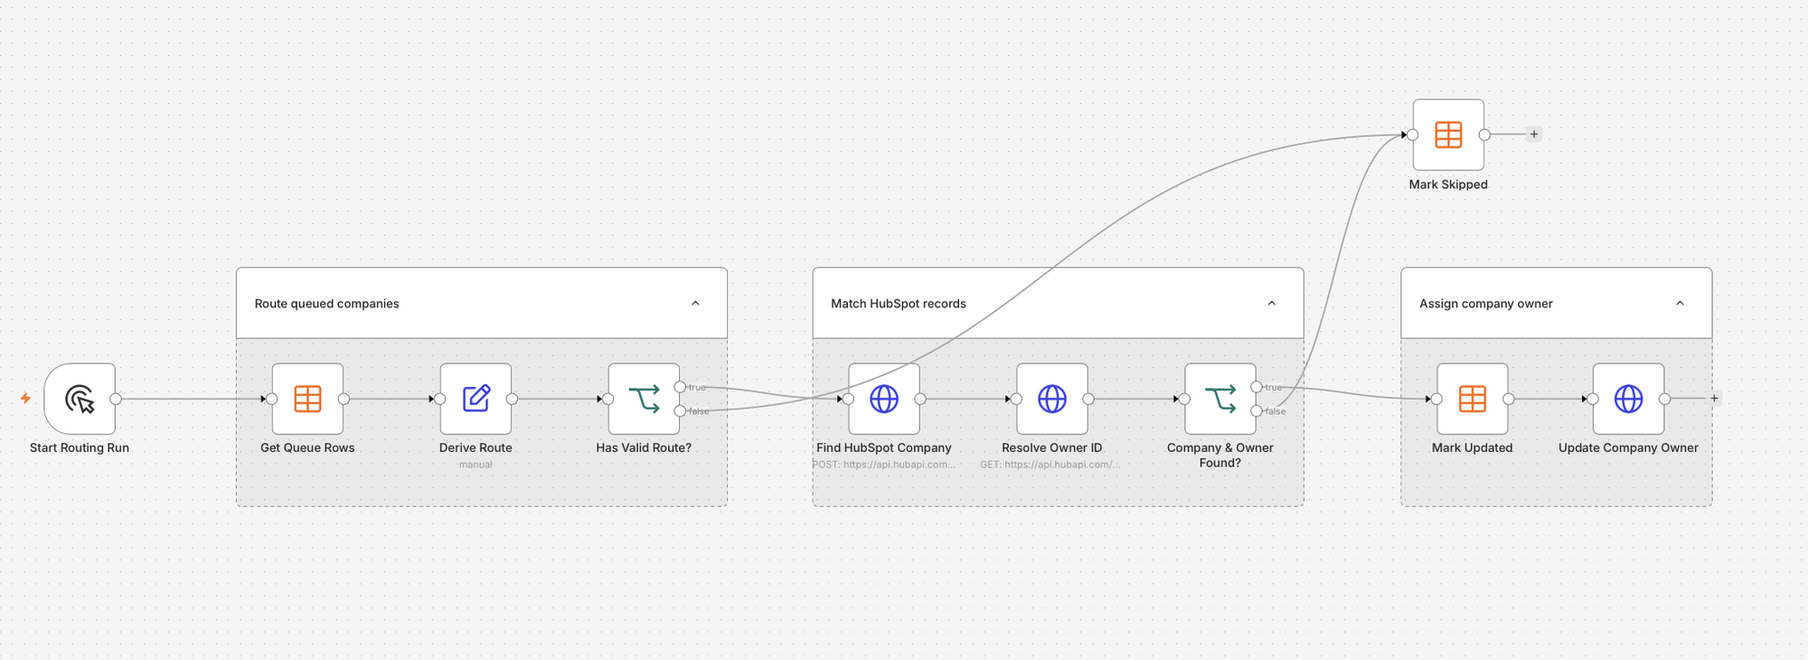
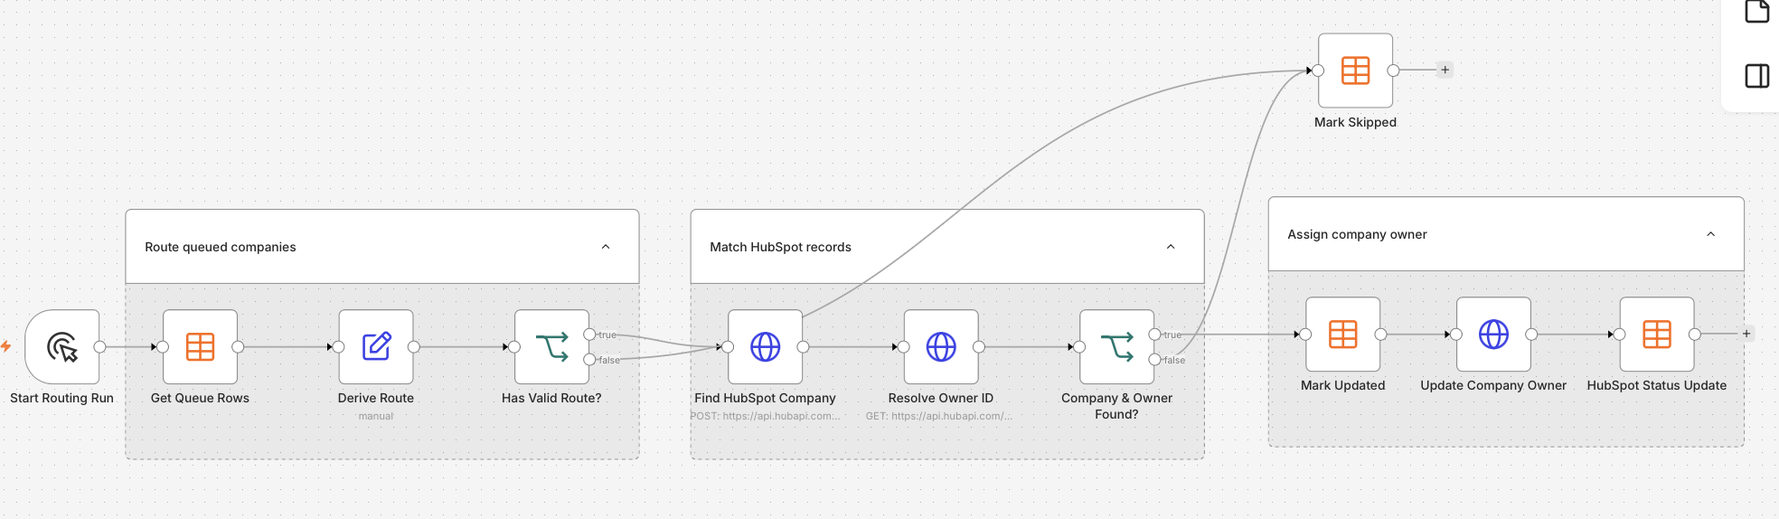
Markdown cleanups

diff --git a/docs/1_account_discovery.md b/docs/1_account_discovery.md
@@ -80,53 +80,48 @@ Clay search results are treated as candidate data, not facts. Enrichment is spen
 Four formula columns turn the enriched data into the fields routing and prioritization need. Each is a short Clay formula, so the logic is visible in the table and anyone can audit it. All four follow the same conventions:
 
 - **Every row gets an answer.** Each formula ends in a catch-all, so no row is left blank.
-- **Unknown is not the same as out of scope.** Missing or unrecognized data returns `NEEDS_REVIEW`; data that clearly fails the ICP returns `OUT_OF_ICP`.
-- **Outputs match the routing workflow.** For in-scope companies, segment and region values are the exact codes the [account routing workflow](2_account_routing.md) expects, so nothing has to be relabeled after export. `OUT_OF_ICP` and `NEEDS_REVIEW` are Clay-only values that stop a company before export.
+- **Unknown data is never guessed.** Missing or unrecognized data returns `NEEDS REVIEW` instead of a best guess. Clearly out-of-scope companies are filtered out earlier, by the company search itself.
+- **Outputs feed the routing workflow directly.** The [account routing workflow](2_account_routing.md) reads the segment and region values as they are, so nothing has to be relabeled after export.
 
 ### Segment
 
 Maps Clay's company size band to a sales segment:
 
 ```javascript
-["201-500", "501-1,000"].includes({{Size}}) ? "MID_MARKET"
-: ["1,001-5,000", "5,001-10,000", "10,001+"].includes({{Size}}) ? "ENTERPRISE"
-: ["1-10", "11-50", "51-200"].includes({{Size}}) ? "OUT_OF_ICP"
-: "NEEDS_REVIEW"
+["201-500","501-1,000"].includes({{Size}}) ? "MID MARKET"
+: ["1,001-5,000","5,001-10,000","10,000+","10,001+"].includes({{Size}}) ? "ENTERPRISE"
+: "NEEDS REVIEW"
 ```
 
 | Size band | Segment |
 |---|---|
-| 201 – 500, 501 – 1,000 | `MID_MARKET` |
-| 1,001 – 5,000, 5,001 – 10,000, 10,001+ | `ENTERPRISE` |
-| 200 employees or fewer | `OUT_OF_ICP` |
-| Blank or unrecognized band | `NEEDS_REVIEW` |
+| 201 – 500, 501 – 1,000 | `MID MARKET` |
+| 1,001 – 5,000, 5,001 – 10,000, 10,000+ / 10,001+ | `ENTERPRISE` |
+| Blank or unrecognized band | `NEEDS REVIEW` |
 
-These boundaries follow Clay's available size bands. The exact `employee_count` is exported alongside the segment, so a borderline account can still be checked during review or reclassified if the policy changes.
+There's no out-of-scope branch because the company search already filters to 200+ employees, so smaller companies never reach the table. These boundaries follow Clay's available size bands. The `Size` band is exported alongside the segment, so a borderline account can still be checked during review or reclassified if the policy changes.
 
 ### Region
 
-Maps the company's headquarters country and state to a sales region:
+The US and UK companies live in separate Clay tables, so each table sets its own region. In the **UK Companies 200+** table, Region is simply `UK`, because that search only returns UK companies.
+
+In the **US Companies 200+** table, a formula maps the headquarters state to a US sales region:
 
 ```javascript
-["GB", "UK"].includes({{Derived - Country}}?.toUpperCase()) ? "UK"
-: {{Derived - Country}}?.toUpperCase() !== "US"
-    ? ({{Derived - Country}} ? "OUT_OF_ICP" : "NEEDS_REVIEW")
-: ["AK","AZ","CA","CO","HI","ID","MT","NM","NV","OR","UT","WA","WY"]
-    .includes({{Derived - State}}?.toUpperCase()) ? "US_WEST"
-: ["AL","AR","CT","DC","DE","FL","GA","IA","IL","IN","KS","KY","LA","MA","MD","ME","MI",
-   "MN","MO","MS","NC","ND","NE","NH","NJ","NY","OH","OK","PA","RI","SC","SD","TN","TX",
-   "VA","VT","WI","WV"]
-    .includes({{Derived - State}}?.toUpperCase()) ? "US_EAST"
-: "NEEDS_REVIEW"
+["AK","AZ","CA","CO","HI","ID","MT","NM","NV","OR","UT","WA","WY"]
+    ?.includes({{Derived - State}}?.toUpperCase()) ? "US_WEST"
+: ["AL","AR","CT","DC","DE","FL","GA","IL","IN","IA","KS","KY","LA","ME","MD","MA","MI",
+   "MN","MS","MO","NE","NH","NJ","NY","NC","ND","OH","OK","PA","RI","SC","SD","TN","TX",
+   "VT","VA","WV","WI"]
+    ?.includes({{Derived - State}}?.toUpperCase()) ? "US_EAST"
+: "NEEDS REVIEW"
 ```
 
-| Headquarters | Region |
+| Headquarters state | Region |
 |---|---|
-| United Kingdom | `UK` |
 | 13 western states: AK, AZ, CA, CO, HI, ID, MT, NM, NV, OR, UT, WA, WY | `US_WEST` |
 | The other 37 states plus Washington, DC | `US_EAST` |
-| Any other country | `OUT_OF_ICP` |
-| Missing country, or a US company with a missing or unrecognized state | `NEEDS_REVIEW` |
+| Missing or unrecognized state | `NEEDS REVIEW` |
 
 Together the two lists cover all 50 states and DC exactly once. The `?.` operators and `toUpperCase()` make the formula safe on blank values and lowercase codes, so a messy row is sent to review instead of breaking the column.
 
@@ -135,7 +130,7 @@ Together the two lists cover all 50 states and DC exactly once. The `?.` operato
 Flags whether the Find jobs enrichment returned at least one open role:
 
 ```javascript
-{{Find jobs}}?.jobs?.length > 0 ? "YES" : "NO"
+{{Find jobs}}?.jobs?.[0]?.job_title ? "YES" : "NO"
 ```
 
 ### Fit Status
@@ -143,65 +138,70 @@ Flags whether the Find jobs enrichment returned at least one open role:
 Combines the three columns above into one decision per company:
 
 ```javascript
-[{{Segment}}, {{Region}}].includes("OUT_OF_ICP") ? "NOT_A_FIT"
-: [{{Segment}}, {{Region}}].includes("NEEDS_REVIEW") ? "REVIEW"
-: {{Job Signal Found}} === "YES" ? "STRONG_FIT"
-: "FIT"
+{{Region}}?.toLowerCase() === "needs review" || {{Segment}}?.toLowerCase() === "needs review" ? "Review"
+: {{Region}}?.toLowerCase() === "other" || {{Segment}}?.toLowerCase() === "other" ? "Not A Fit"
+: {{Job Signal Found}} === "YES" ? "Strong Fit"
+: "Fit"
 ```
 
 ```mermaid
 flowchart TD
-    start(["Company row"]) --> q1{"Segment or Region<br/>= OUT_OF_ICP?"}
-    q1 -- yes --> out["NOT_A_FIT"]
-    q1 -- no --> q2{"Segment or Region<br/>= NEEDS_REVIEW?"}
-    q2 -- yes --> review["REVIEW"]
+    start(["Company row"]) --> q1{"Segment or Region<br/>= NEEDS REVIEW?"}
+    q1 -- yes --> review["Review"]
+    q1 -- no --> q2{"Segment or Region<br/>= Other?"}
+    q2 -- yes --> out["Not A Fit"]
     q2 -- no --> q3{"Open job<br/>posting found?"}
-    q3 -- yes --> strong["STRONG_FIT"]
-    q3 -- no --> fit["FIT"]
+    q3 -- yes --> strong["Strong Fit"]
+    q3 -- no --> fit["Fit"]
 ```
 
 | Fit status | Meaning | What happens next |
 |---|---|---|
-| `STRONG_FIT` | Inside the ICP and actively hiring | Prioritized for outreach |
-| `FIT` | Inside the ICP, no hiring signal yet | Routed to a rep as normal |
-| `REVIEW` | A required fact is missing or unclear | A person checks it before it reaches the CRM |
-| `NOT_A_FIT` | Clearly outside the ICP | Kept in the table to explain the exclusion, never exported |
+| `Strong Fit` | Inside the ICP and actively hiring | Prioritized for outreach |
+| `Fit` | Inside the ICP, no hiring signal yet | Routed to a rep as normal |
+| `Review` | A required fact is missing or unclear | A person checks it before an owner is assigned |
+| `Not A Fit` | Segment or region is outside the ICP | Kept in the table to explain the exclusion |
 
-The order of the checks is deliberate. A known disqualifier wins first: a 50-person company is out of scope even if its state is missing, so no one wastes time reviewing it. Missing data comes next: a company with an unknown region is never scored as a fit, because routing it would mean guessing which rep owns it.
+Missing data is checked first: a company with an unknown region or segment is never scored as a fit, because routing it would mean guessing which rep owns it. The comparisons are case-insensitive, so `NEEDS REVIEW` and `needs review` are treated the same.
 
 ## 4. Quality controls
 
 - **Domain is the identity key.** Domains are normalized to lowercase with no URL path, so the same company found twice can be spotted and matched to HubSpot later.
 - **Duplicates are reviewed, not auto-deleted.** Clay's auto-dedupe is left off on the raw tables, because a parent company and its subsidiary can share a domain. Possible duplicates are marked and resolved by a person, and the original rows are kept as evidence.
-- **Raw tables are preserved.** `REVIEW` and `NOT_A_FIT` rows stay in the workbook, so every exclusion can be explained later.
+- **Raw tables are preserved.** `Review` and `Not A Fit` rows stay in the workbook, so every exclusion can be explained later.
 - **Manual spot check before export.** At least 10 approved rows are checked by hand: headcount matches the segment, the state matches the region, and every source link opens.
-- **Existing CRM accounts are flagged.** Companies already in HubSpot are marked for an update or an ownership review instead of being imported as new; the `review_flag` column carries that decision into routing.
+- **Existing CRM accounts are flagged.** Companies already in HubSpot are marked for an update or an ownership review instead of being imported as new.
 
 ## 5. Handoff to routing
 
-Only approved companies (`FIT` or `STRONG_FIT`, with no unresolved duplicates) go into the export view. It's downloaded as `fiction_cloud_icp_accounts_YYYY-MM-DD.csv` and imported into both HubSpot and the n8n routing queue, where the [account routing workflow](2_account_routing.md) assigns each company to one of six sales lanes using its segment and region.
+Companies leave Clay through an export view, downloaded as `fiction_cloud_icp_accounts_YYYY-MM-DD.csv` and imported into both HubSpot and the n8n routing queue. There, the [account routing workflow](2_account_routing.md) assigns each company to one of six sales lanes using its segment and region.
 
-Because the export is filtered on fit status, `OUT_OF_ICP` and `NEEDS_REVIEW` never leave Clay: every exported row carries one of the routing codes (`MID_MARKET` or `ENTERPRISE`, and `US_EAST`, `US_WEST` or `UK`). Routing still checks the region, segment and review flag on every row, so a bad value that slipped through would be sent to `REVIEW` rather than assigned.
+The export view can be filtered in two ways:
+
+- **Approved companies only.** Filtering on `Fit` or `Strong Fit`, with no unresolved duplicates, keeps `Review` and `Not A Fit` companies in Clay, so routing only receives rows with a valid segment and region.
+- **Approved and review companies.** Including review rows lets the routing workflow record them as `Skipped`, so every company in the batch has a visible outcome in the queue.
+
+Either way, routing checks the region and segment on every row, so a company without a valid lane is marked `Skipped` rather than assigned.
 
 The export columns use the same names as the routing queue:
 
 | Export column | Used for |
 |---|---|
-| `company_name`, `domain` | Identity and HubSpot matching. Domain is normalized and is the unique key. |
-| `employee_count`, `segment` | Mid-Market vs. Enterprise lane |
-| `hq_country_code`, `hq_state_code`, `region` | US East, US West or UK lane |
-| `review_flag` | Set when an approved account still needs a person's decision before an owner is assigned, such as a subsidiary sharing its parent's domain or a company already owned in HubSpot. Routing sends these to `REVIEW`. |
-| `fit_status`, `job_signal_found` | Prioritizing outreach |
-| `company_profile_url`, `source_table`, `enriched_at` | Audit trail |
+| `Name`, `Domain` | Identity and HubSpot matching. Domain is normalized and is the unique key. |
+| `Size`, `Segment` | Mid-Market vs. Enterprise lane |
+| `Country`, `City`, `Derived_State`, `Region` | US East, US West, or UK lane |
+| `Fit_Status`, `Job_Signal_Found` | Prioritizing outreach |
+| `Description`, `Industry`, `Type` | Company context for the assigned rep |
+| `Source_Account_ID`, `Record_Source` | Audit trail back to the Clay record |
 
 ## Design decisions
 
 - **Separate searches per country.** Each table's source is unambiguous, and US and UK filters can evolve independently.
 - **Enrich on demand, not by default.** Conditional enrichment keeps credit spend proportional to missing data rather than to row count.
 - **Formulas over manual tagging.** Segment, region and fit are calculated the same way for every row, and the rules are readable in the table itself.
-- **Review is a first-class outcome.** Missing or conflicting data produces `NEEDS_REVIEW`, never a guessed region or segment, so routing downstream only ever sees clean inputs.
+- **Review is a first-class outcome.** Missing or conflicting data produces `NEEDS REVIEW`, never a guessed region or segment, so routing downstream only ever sees clean inputs.
 - **Shared codes across systems.** Clay outputs the same segment and region codes the routing workflow reads, so the handoff needs no translation step.
-- **Signals are kept separate from fit.** Hiring activity raises a company from `FIT` to `STRONG_FIT` but never makes an out-of-profile company a fit.
+- **Signals are kept separate from fit.** Hiring activity raises a company from `Fit` to `Strong Fit` but never makes an out-of-profile company a fit.
 
 ## What's next
 

diff --git a/docs/2_account_routing.md b/docs/2_account_routing.md
@@ -16,7 +16,7 @@ An automated routing workflow for **Fiction Cloud**, a fictional B2B SaaS compan
 2. **n8n** decides which sales lane each company belongs to.
 3. **HubSpot** receives the owner assignment.
 
-Every decision is logged with a reason, so any assignment can be explained later.
+Every decision is logged in an n8n Data Table with its assigned route, owner, and update status, so any assignment can be traced later.
 
 ## Routing policy
 
@@ -26,20 +26,20 @@ Fiction Cloud sells to two segments in three regions, which gives six sales lane
 
 | Employees | Segment |
 |---|---|
-| 201 – 1,000 | `MID_MARKET` |
+| 201 – 1,000 | `MID MARKET` |
 | 1,001+ | `ENTERPRISE` |
 
-**Region** comes from headquarters location: the defined western US states map to `US_WEST`, all other US states and DC map to `US_EAST`, and Great Britain maps to `UK`.
+**Region** comes from headquarters location: the defined western US states map to `US_WEST`, the other 37 states and DC map to `US_EAST`, and Great Britain maps to `UK`.
 
 Together they pick the lane:
 
-| Region | MID_MARKET | ENTERPRISE |
+| Region | MID MARKET | ENTERPRISE |
 |---|---|---|
 | **US_EAST** | `AE_EAST_MM` | `AE_EAST_ENT` |
 | **US_WEST** | `AE_WEST_MM` | `AE_WEST_ENT` |
 | **UK** | `AE_UK_MM` | `AE_UK_ENT` |
 
-Anything that doesn't fit cleanly goes to **REVIEW** instead of being guessed at: a missing region or segment, a missing or shared domain, a subsidiary, or conflicting firmographics. A wrong owner is worse than a short delay, because it sends a rep after an account that isn't theirs.
+Anything that doesn't fit cleanly is marked **`Skipped`** for review instead of being guessed at: a missing region or segment, a missing or shared domain, a subsidiary, or conflicting firmographics. A wrong owner is worse than a short delay, because it sends a rep after an account that isn't theirs.
 
 ## Which system does what
 
@@ -62,7 +62,7 @@ flowchart LR
     clay -- "CSV import" --> queue
     queue -- "pending rows" --> workflow
     workflow -- "find company,<br/>set owner" --> hubspot
-    workflow -- "status, bucket,<br/>reason" --> queue
+    workflow -- "route, owner,<br/>update status" --> queue
 ```
 
 The same reviewed Clay batch seeds both HubSpot and the routing queue. HubSpot holds the records; n8n holds the decisions.
@@ -72,7 +72,7 @@ The same reviewed Clay batch seeds both HubSpot and the routing queue. HubSpot h
 The portfolio runs on a HubSpot Free account, whose limit of 10 custom properties was already used up. Rather than overwrite unrelated standard fields, the design adds **zero new HubSpot properties**:
 
 - Routing inputs use HubSpot's **default Company properties**: Company domain name, Number of employees, Country/Region code and State/Region code.
-- Routing outputs (region, segment, lane, status, reason) live in the **n8n Data Table**, not in HubSpot.
+- Routing outputs (assigned route, owner email, and update status) live in the **n8n Data Table**, not in HubSpot.
 - The only thing written back to HubSpot is the native **Company owner** field.
 
 No paid HubSpot workflow tools are needed. The tradeoff is that the route lane is visible in n8n but can't be filtered on in HubSpot. If a custom property slot ever frees up, the lane would be the one field worth adding.
@@ -81,7 +81,7 @@ No paid HubSpot workflow tools are needed. The tradeoff is that the route lane i
 
 ![n8n account routing workflow](images/account_routing_n8n_workflow.png)
 
-The workflow runs in three stages, each grouped in the n8n canvas. Every company ends in one of two places: its owner is assigned in HubSpot, or it's marked skipped with a reason.
+The workflow runs in three stages, each grouped in the n8n canvas. A successful company receives its owner in HubSpot before the queue sets `HubSpot_Update_Status` to `Updated`. Records that cannot be matched or routed are marked `Skipped` for review.
 
 ```mermaid
 flowchart LR
@@ -96,7 +96,7 @@ flowchart LR
     end
 
     subgraph assign["Assign company owner"]
-        mark["Mark Updated"] --> update["Update Company Owner"]
+        mark["Mark Updated"] --> update["Update Company Owner"] --> status["HubSpot Status Update"]
     end
 
     skip["Mark Skipped"]
@@ -111,36 +111,38 @@ flowchart LR
 | Stage | Node | n8n node type | What it does |
 |---|---|---|---|
 | Trigger | **Start Routing Run** | Manual trigger | Starts a run on demand. Designed to move to a 15-minute schedule once tested. |
-| Route queued companies | **Get Queue Rows** | Data Table | Reads queue rows with a blank `route_status`, i.e. companies not yet decided. Already-routed rows are never picked up again. |
-| | **Derive Route** | Edit Fields (Set) | Combines region and segment into a route bucket, e.g. `US_WEST` + `ENTERPRISE` → `AE_WEST_ENT`. |
-| | **Has Valid Route?** | If | Checks that the bucket is one of the six lanes and the Clay review flag is clear. If not, the company goes to **Mark Skipped**. |
+| Route queued companies | **Get Queue Rows** | Data Table | Loads the companies from the `fc_route_queue` Data Table. In this demo the Clay list is exported and imported into the Data Table rather than connected to Clay directly. |
+| | **Derive Route** | Edit Fields (Set) | Combines region and segment into a route and owner, e.g. `US_WEST` + `ENTERPRISE` → `AE_WEST_ENT`. |
+| | **Has Valid Route?** | If | Checks that the route is one of the six lanes. A company whose region or segment is marked for review in Clay fails the check and goes to **Mark Skipped**. |
 | Match HubSpot records | **Find HubSpot Company** | HTTP Request (`POST` HubSpot CRM search) | Searches HubSpot Companies by domain to get the Company's Record ID. |
 | | **Resolve Owner ID** | HTTP Request (`GET` HubSpot API) | Looks up the HubSpot owner ID to assign for the company's route bucket. |
 | | **Company & Owner Found?** | If | Continues only if exactly one company and a valid owner were found. No match, or an ambiguous one, goes to **Mark Skipped**. |
-| Assign company owner | **Mark Updated** | Data Table | Writes the HubSpot Company ID, bucket, status, reason and policy version back to the company's queue row. |
-| | **Update Company Owner** | HTTP Request (HubSpot API) | Sets the Company owner on the HubSpot record. |
-| Exception path | **Mark Skipped** | Data Table | Records `REVIEW` with a short reason, so a person can fix the data and re-queue the company. |
+| Assign company owner | **Mark Updated** | Data Table | Writes the assigned route and owner email to the queue row before the CRM write. It leaves `HubSpot_Update_Status` blank. |
+| | **Update Company Owner** | HTTP Request (HubSpot API) | Sets the Company owner on the HubSpot record. The next step runs only after this request succeeds. |
+| | **HubSpot Status Update** | Data Table | Sets `HubSpot_Update_Status` to `Updated` after HubSpot confirms the owner update. |
+| Exception path | **Mark Skipped** | Data Table | Sets `HubSpot_Update_Status` to `Skipped`, so a person can fix the data and re-run the company. |
 
 ## The decision log
 
-The `fc_route_queue` Data Table is the audit trail. It starts as the reviewed Clay file, one row per company, and the workflow fills in the output columns:
+The `fc_route_queue` Data Table is the audit trail. It starts as the exported Clay file, one row per company, and the workflow fills in the last three columns:
 
 | Column | Purpose |
 |---|---|
-| `company_name`, `domain`, `employee_count`, `hq_country_code`, `hq_state_code` | Inputs from Clay. Domain is the unique key. |
-| `region`, `segment`, `review_flag` | Routing inputs from the Clay ICP review |
-| `hubspot_company_id` | HubSpot Record ID after a successful domain match: the stable link to the CRM |
-| `route_bucket` | One of the six lanes |
-| `route_status` | `ROUTED` or `REVIEW`. Blank means pending. |
-| `route_reason` | Short, human-readable explanation of the decision |
-| `policy_version` | `v1`, so a decision can be traced to the rules in force when it was made |
+| `Name`, `Domain`, `Description`, `Industry`, `Size`, `Type`, `City`, `Country` | Company details from Clay. Domain is the matching key. |
+| `Source_Account_ID`, `Record_Source` | The Clay record ID and source system, so each row can be traced back to where it came from |
+| `Segment`, `Region`, `Derived_State` | Routing inputs derived in Clay. A region that can't be determined is marked for review. |
+| `Job_Signal_Found`, `Fit_Status` | ICP fit results from Clay |
+| `n8n_assigned_route` | The lane the workflow assigned, e.g. `AE_EAST_MM` |
+| `n8n_assigned_owner_email` | The email of the HubSpot owner assigned to the company |
+| `HubSpot_Update_Status` | `Updated` once HubSpot confirms the owner change, or `Skipped` when routing stops. Blank means not yet processed. |
+| `id`, `createdAt`, `updatedAt` | Row metadata added by n8n |
 
 ## Design decisions
 
 - **Domain is the matching key.** Company names vary ("Acme" vs. "Acme, Inc."), but domains don't. Clay rows are deduplicated to one per normalized domain, and HubSpot's Company import deduplicates on domain too, so re-importing a company updates it instead of creating a duplicate.
-- **Re-runs are safe.** The workflow only reads rows with a blank status and writes a status to every row it touches, so running it twice never assigns the same company twice.
-- **Bad data goes to review, not to a rep.** Missing fields, unmatched domains and duplicate CRM records are all stopped and labeled, rather than routed on a guess.
-- **Every decision is explainable.** The status, reason and policy version on each row answer "why does this rep own this account?" without anyone digging through execution logs.
+- **Success is recorded only after HubSpot confirms.** `Updated` is written only after the owner update succeeds, so a failed CRM write never receives a false success status.
+- **Bad data goes to review, not to a rep.** Missing fields, unmatched domains and duplicate CRM records are all stopped and marked `Skipped`, rather than routed on a guess.
+- **Every decision is traceable.** The assigned route, owner email, and update status on each row answer "who owns this account, and did HubSpot get the change?" without anyone digging through execution logs.
 - **The company is the routing unit.** Routing at the account level keeps every contact at one company with the same rep. Contacts can be added later and associated to the existing company by domain.
 
 ## Test plan
@@ -149,16 +151,20 @@ The workflow is tested against the cases most likely to break routing:
 
 | Test case | Expected result |
 |---|---|
-| One company in each of the six region/segment lanes | Each gets the correct bucket and owner, status `ROUTED` |
-| Company with a missing region | `REVIEW`, never routed |
-| Company with a review flag set in Clay | `REVIEW` |
-| Company whose domain isn't in HubSpot | `REVIEW`, no CRM match |
-| Running the workflow a second time | No row is processed twice |
+| One company in each of the six region/segment lanes | Each gets the correct route and owner, status `Updated` |
+| Company with a missing region | `Skipped`, never routed |
+| Company whose region or segment is marked for review in Clay | `Skipped` |
+| Company whose domain isn't in HubSpot | `Skipped`, no CRM match |
+| HubSpot owner update fails | `Updated` is not written |
 
 Evidence for each run: the exported Data Table CSV, the HubSpot Company records, and the n8n execution log.
 
+> **Note:** The demo HubSpot account has a single user, so there is only one owner to assign. Live runs were therefore done one lane at a time, starting with `AE_EAST_MM`.
+
 ## What's next
 
+- **Connect Clay directly.** Replace the manual export and import with a direct Clay-to-n8n connection.
+- **Only pick up unprocessed rows.** Filter **Get Queue Rows** to rows with a blank `HubSpot_Update_Status`, so re-runs skip companies that are already done.
 - **Move to a schedule.** Switch the manual trigger to a 15-minute schedule so new Clay accounts are routed without anyone starting a run.
 - **Add capacity rules.** Balance assignments within a lane by each rep's current account count, not just by territory.
 - **Route contacts and inbound leads.** Extend the same policy to contacts and form fills, inheriting the owner of the matched company.

diff --git a/README.md b/README.md
@@ -45,7 +45,7 @@ flowchart TD
         clay["Clay<br/>Find & enrich ICP accounts"]
         routing["n8n Account Routing<br/>Assign the right rep"]
         crm["HubSpot CRM<br/>Company owner set"]
-        review["Review queue<br/>NEEDS_REVIEW"]
+        review["Review queue<br/>NEEDS REVIEW · Skipped"]
     end
 
     subgraph analyze["Model & analyze data"]
@@ -91,9 +91,9 @@ Bad data is stopped along the way: Clay and n8n send unclear or conflicting reco
 
 - **ICP-driven search.** US and UK searches filter on country, company size (201+ employees), industry, and domain, and enrichment runs only to fill in missing facts, so credits aren't spent re-fetching data.
 - **Formula-based decisions.** Clay formulas derive segment, region, and fit status the same way for every row, using the exact codes the routing workflow expects.
-- **Hiring as a buying signal.** Clay's Find jobs enrichment lifts accounts with open roles from `FIT` to `STRONG_FIT`.
+- **Hiring as a buying signal.** Clay's Find jobs enrichment lifts accounts with open roles from `Fit` to `Strong Fit`.
 
-**Result:** 73 candidate accounts sourced (50 US, 23 UK). Only `FIT` and `STRONG_FIT` accounts are exported; anything with a missing size or location is flagged `NEEDS_REVIEW` and never leaves Clay.
+**Result:** 73 candidate accounts sourced (50 US, 23 UK). Accounts with a missing size or location are flagged `NEEDS REVIEW`, and the export can be filtered to send only `Fit` and `Strong Fit` accounts to routing.
 
 **Shows:** account discovery · data enrichment · ICP qualification · Clay formulas · data quality controls
 
@@ -105,15 +105,15 @@ Bad data is stopped along the way: Clay and n8n send unclear or conflicting reco
 
 **Tools:** n8n, HubSpot API
 
-> Automatically assigns each target account to the right sales rep, and logs why.
+> Automatically assigns each target account to the right sales rep, and logs the result.
 
 ![n8n account routing workflow](docs/images/account_routing_n8n_workflow.png)
 
 - **Six sales lanes:** US East, US West, and UK, each split into Mid-Market and Enterprise, decided by company size and region.
 - **Zero new HubSpot fields.** Built on HubSpot Free with its custom properties already used up: routing decisions live in an n8n Data Table, and only the native Company owner field is written back.
-- **Safe to re-run and explainable.** Only undecided companies are picked up, so no account is assigned twice, and every decision records a status, reason, and policy version.
+- **Traceable by design.** Each row records its assigned route, owner email, and update status, and `Updated` is written only after HubSpot confirms the owner change.
 
-**Result:** Every company ends in one of two places: its owner is assigned in HubSpot, or it's skipped with a reason, such as an unmatched domain, a duplicate record, or a missing region.
+**Result:** Every processed company ends in one of two places: its owner is assigned in HubSpot and the queue records `Updated`, or it's marked `Skipped` for review, for example because of an unmatched domain, a duplicate record, or a missing region.
 
 **Shows:** workflow automation · API integration · routing design · data quality controls
 

diff --git a/docs/data_generator.md b/docs/data_generator.md
@@ -1,10 +1,10 @@
 # Fiction Cloud Inc. core data generator
 
-This folder contains the code to create Fiction Cloud Inc.'s core fictional CRM, marketing, finance, and identity source tables as CSV files. It also creates the April departmental report extracts needed for the Lead-to-Revenue Data Mart / SSOT assignment. It does **not** build the mart, import records into a CRM, or send messages.
+The `generate.py` script in the repo root creates Fiction Cloud Inc.'s core fictional CRM, marketing, finance, and identity source tables as CSV files. It also creates the April departmental report extracts used in the lead-to-revenue analysis. It does **not** build the mart, import records into a CRM, or send messages.
 
-## Run it in your Git repository
+## Run it
 
-Copy this folder into a new repository. With Python 3.10 or newer:
+From the repo root, with Python 3.10 or newer:
 
 ```bash
 python3 -m venv .venv
@@ -41,4 +41,4 @@ The 14 core tables contain 7,860 source rows. The validator checks key relations
 
 All companies and people are fictional. Emails use `example.com` and must not be used for outreach. The CSV schemas are logical source tables, not a promise that a CRM has those exact native objects or field names. Importing into HubSpot or Salesforce requires a separate, deliberate mapping; do not import `validation_private/` or analytical-only history tables as CRM contacts or deals by default.
 
-Routing assignment logs, product usage, daily pipeline snapshots, and seller documents are later extensions. Core v1 preserves the accounts, inquiries, owners, and opportunities those extensions can reference. The completed real-world Jamaica Airbnb enrichment project is separate from Fiction Cloud Inc.
+Routing assignment logs, product usage, daily pipeline snapshots, and seller documents are later extensions. Core v1 preserves the accounts, inquiries, owners, and opportunities those extensions can reference.
